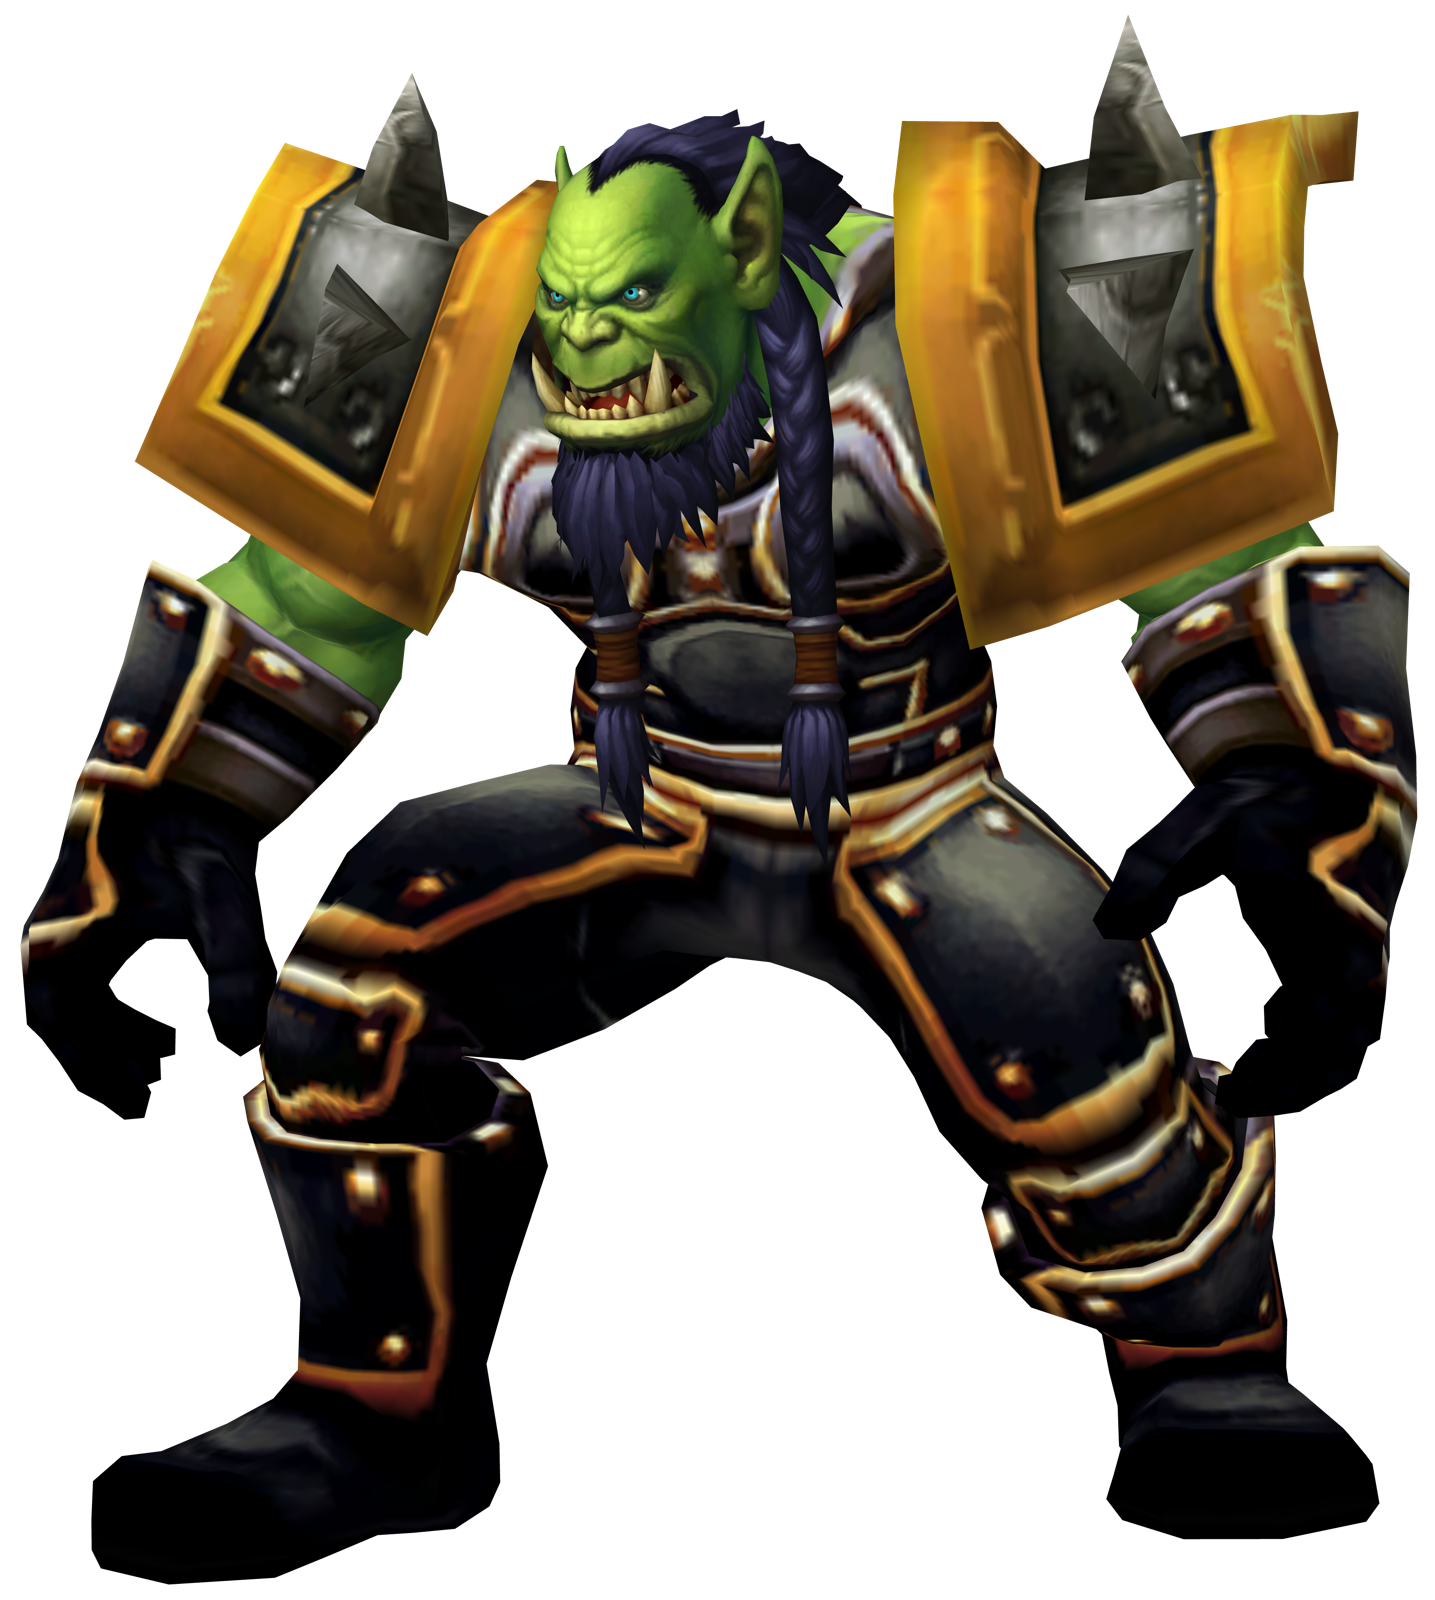
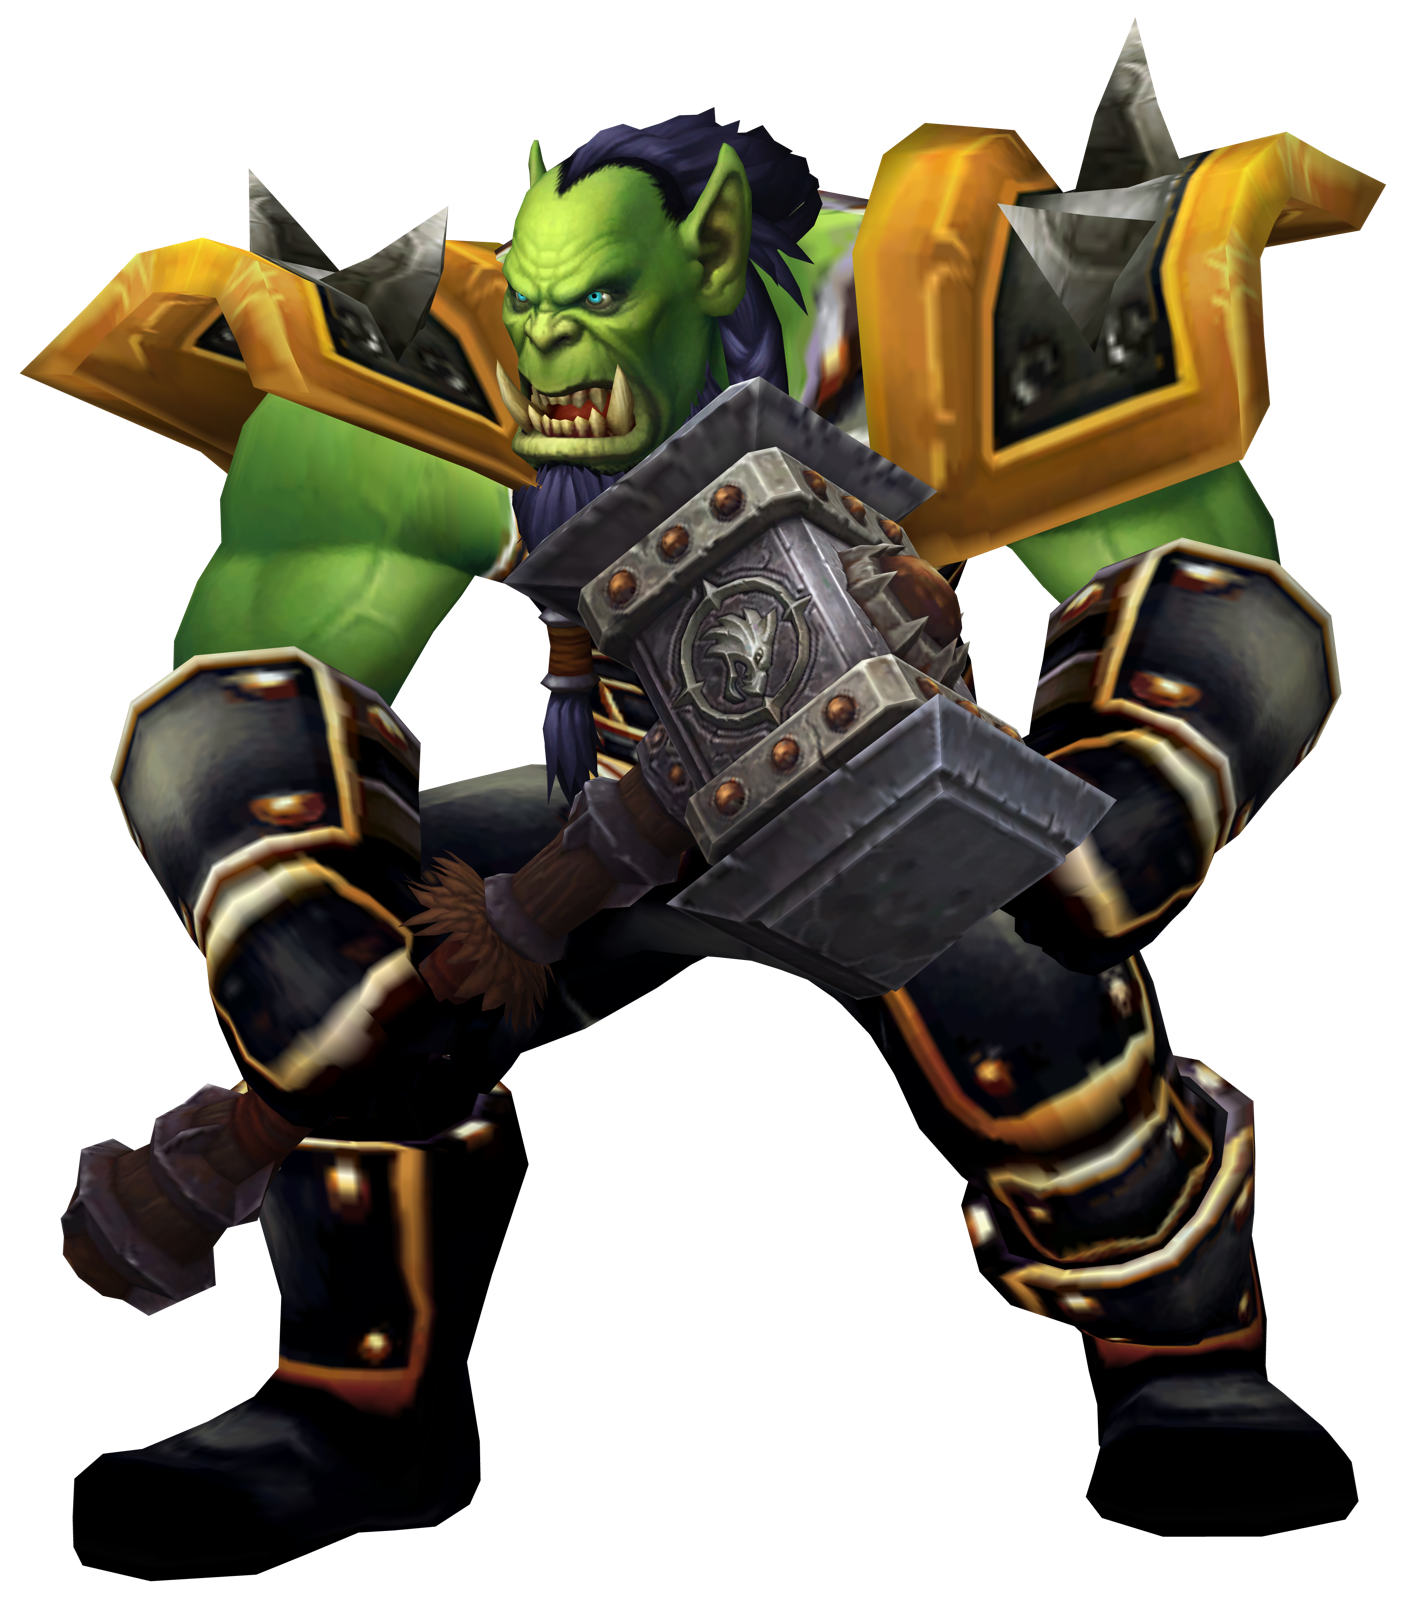
Legends carry their weapons: Doomhammer, the Warglaives, Shalamayne, Thas'dorah, G'Hanir, Talonclaw, a moon glaive, a hexblade

diff --git a/src/game/roster.ts b/src/game/roster.ts
@@ -26,6 +26,8 @@ export interface Legend {
    * the list with a `note` saying why, and gets no tile.
    */
   displays: number[];
+  /** The legend's signature weapon, by item id, worn over the display's empty hands. */
+  weapons?: { mainHand?: number; offHand?: number };
   note?: string;
 }
 
@@ -44,18 +46,18 @@ export type Tile =
  */
 export const LEGENDS: Legend[] = [
   // The white robe: Legion's Tyrande in retail, the original in the classic beta.
-  { slug: 'tyrande', name: 'Tyrande Whisperwind', title: 'High Priestess of Elune', faction: 'alliance', displays: [73234, 7274] },
+  { slug: 'tyrande', name: 'Tyrande Whisperwind', title: 'High Priestess of Elune', faction: 'alliance', displays: [73234, 7274], weapons: { mainHand: 266096 } },
   // Retail's black-plate Thrall (npc 253222) and the classic one.
-  { slug: 'thrall', name: 'Thrall', title: 'Warchief of the Horde', faction: 'horde', displays: [19015, 4527] },
+  { slug: 'thrall', name: 'Thrall', title: 'Warchief of the Horde', faction: 'horde', displays: [19015, 4527], weapons: { mainHand: 128819 } },
   // Only the classic beta has her banshee queen look on a player model; every retail look is a model of her own.
-  { slug: 'sylvanas', name: 'Sylvanas Windrunner', title: 'Banshee Queen', faction: 'horde', displays: [11657] },
-  { slug: 'malfurion', name: 'Malfurion Stormrage', title: 'Archdruid', faction: 'alliance', displays: [127688, 39162] },
+  { slug: 'sylvanas', name: 'Sylvanas Windrunner', title: 'Banshee Queen', faction: 'horde', displays: [11657], weapons: { mainHand: 128826 } },
+  { slug: 'malfurion', name: 'Malfurion Stormrage', title: 'Archdruid', faction: 'alliance', displays: [127688, 39162], weapons: { mainHand: 128306 } },
   // Before the Betrayer: the Moon Guard captain of the War of the Ancients. The demon hunter is a model of his own.
-  { slug: 'illidan', name: 'Illidan Stormrage', title: 'Captain of the Moon Guard', faction: 'neutral', displays: [72623] },
+  { slug: 'illidan', name: 'Illidan Stormrage', title: 'Captain of the Moon Guard', faction: 'neutral', displays: [72623], weapons: { mainHand: 32837, offHand: 32838 } },
   // Young Varian (npc 68925); King Varian is a model of his own.
-  { slug: 'varian', name: 'Varian Wrynn', title: 'Prince of Stormwind', faction: 'alliance', displays: [47044] },
-  { slug: 'cairne', name: 'Cairne Bloodhoof', title: 'High Chieftain', faction: 'horde', displays: [64785, 4307] },
-  { slug: 'voljin', name: "Vol'jin", title: 'Darkspear Chieftain', faction: 'horde', displays: [10357] },
+  { slug: 'varian', name: 'Varian Wrynn', title: 'Prince of Stormwind', faction: 'alliance', displays: [47044], weapons: { mainHand: 253230 } },
+  { slug: 'cairne', name: 'Cairne Bloodhoof', title: 'High Chieftain', faction: 'horde', displays: [64785, 4307], weapons: { mainHand: 128808 } },
+  { slug: 'voljin', name: "Vol'jin", title: 'Darkspear Chieftain', faction: 'horde', displays: [10357], weapons: { mainHand: 280842 } },
   { slug: 'jaina', name: 'Jaina Proudmoore', title: 'Lady of Theramore', faction: 'alliance', displays: [], note: 'Every look of hers the retail files name (87892, 80015, 46819 and the rest) is a model of her own; the classic Theramore look is not named in either install.' },
   { slug: 'arthas', name: 'Arthas Menethil', title: 'The Lich King', faction: 'neutral', displays: [], note: 'Prince Arthas (27545) and the Lich King (22234, 24191, 121920) are models of their own.' },
   { slug: 'garrosh', name: 'Garrosh Hellscream', title: 'Warchief', faction: 'horde', displays: [], note: 'His looks (32904, 56248, 87839) are models of their own; the Garrosh\'ar grunts are not him.' },

diff --git a/src/game/fighters.ts b/src/game/fighters.ts
@@ -57,7 +57,8 @@ export class Fighters {
         sex: tile.sex,
         classId: undefined,
         choices: [],
-        gear: [],
+        // The display's hands are empty: the legend's signature weapon goes in them.
+        gear: Object.entries(tile.legend.weapons ?? {}).flatMap(([slot, id]) => (id ? [[slot as Slot, id] as [Slot, number]] : [])),
         npc: tile.displayId,
       };
     }
